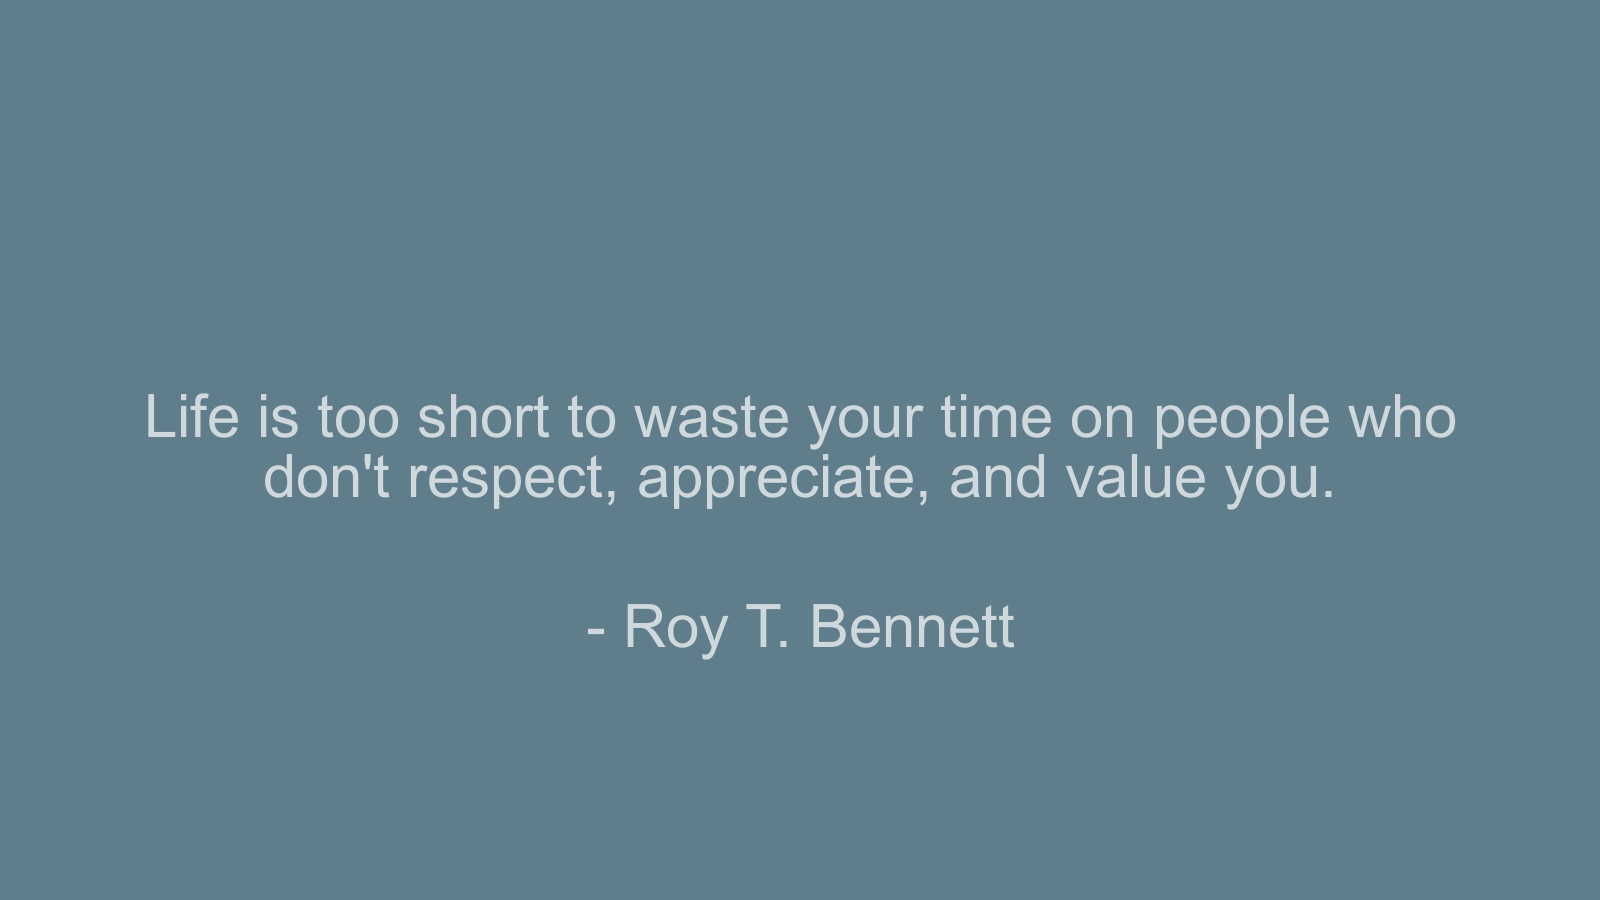
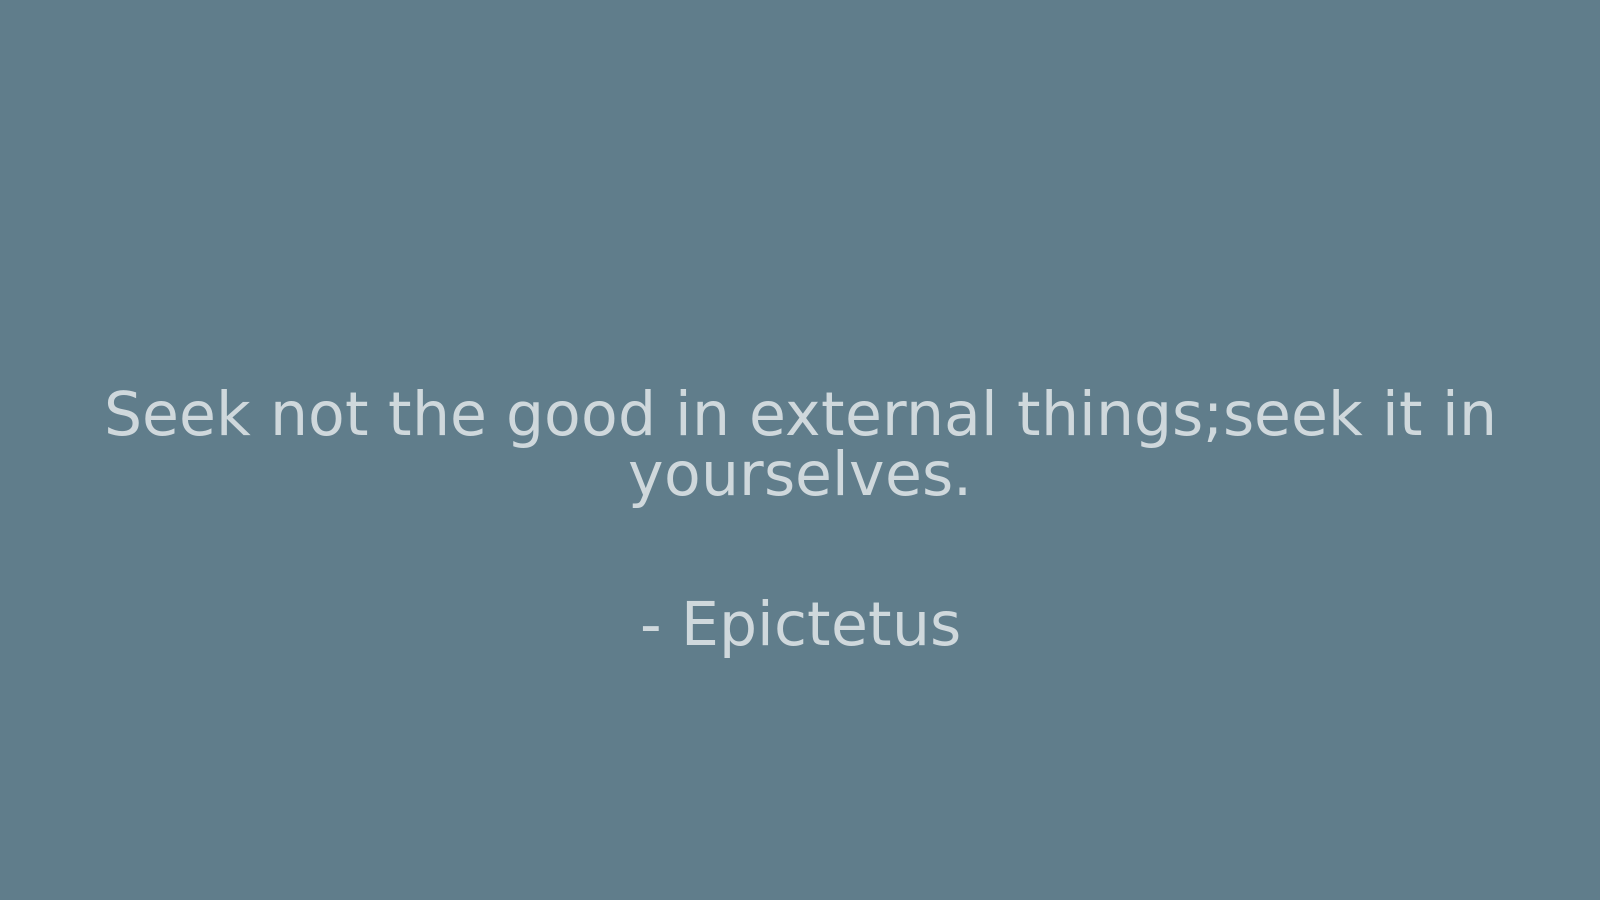
updated call of image.js

Changed region(s): [[0.0625, 0.4356, 0.9375, 0.56], [0.375, 0.6533, 0.6562, 0.7467]]

diff --git a/src/image.js b/src/image.js
@@ -3,7 +3,6 @@ const { createCanvas } = require('canvas');
 const CanvasTextWrapper = require('canvas-text-wrapper').CanvasTextWrapper;
 
 function getImage(quote, author, destination) {
-
   // basic settings
   const width = 1600;
   const height = 900;
@@ -21,21 +20,21 @@ function getImage(quote, author, destination) {
 
   // quote 
   CanvasTextWrapper(canvas, quote,
-    {
-      lineBreak: 'auto',
-      font: '60px Arial',
-      verticalAlign: 'middle',
-      textAlign: 'center',
-      paddingX: 100
-    });
+  {
+    lineBreak: 'auto',
+    font: '60px Arial',
+    verticalAlign: 'middle',
+    textAlign: 'center',
+    paddingX: 100
+  });
 
     // author
   CanvasTextWrapper(canvas, '- ' + author,
-    {
-      font: '60px Arial',
-      textAlign: 'center',
-      paddingY: 600
-    });
+  {
+    font: '60px Arial',
+    textAlign: 'center',
+    paddingY: 600
+  });
 
   // saving
   const buffer = canvas.toBuffer('image/png')

diff --git a/src/index.js b/src/index.js
@@ -7,17 +7,24 @@ var twitterBot = require('./Platforms/Twitter/bot');
 
 async function PostQuote() {
   const quotes = await quoteApi.getQuotes();
+
   const ind = Math.floor(Math.random() * (quotes.length - 1));
+
   const quote = quotes[ind].quote;
   const author = quotes[ind].author;
-  const imagePath = 'Resources/image.png'
+  
+  const imagePath = './Resources/image.png'
 
   // Generate Image
   imageGenerator.getImage(quote, author, imagePath);
+
+  // Post Quote
   instagramBot.PostImage(imagePath);
   linkedinBot.PostText(quote, author);
   twitterBot.PostText(quote, author);
+
+  console.log('Posted')
 }
 
-intervalInMins = 60;
+intervalInMins = 0.1;
 setInterval(PostQuote, 1000 * 60 *  intervalInMins);
